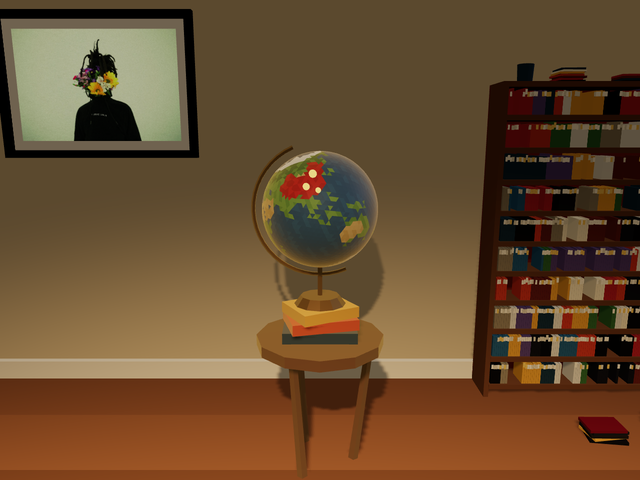
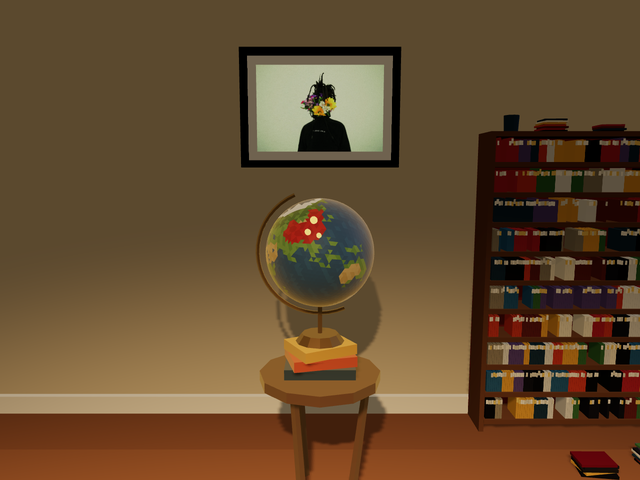
Hub : une chaîne CD à la place de la platine vinyle, I Love Ugly et Evil Dead bien visibles sur téléphone
Le lecteur CD se charge par le dessus (le CD irisé tourne sous son couvercle fumé, l'écran bleu), des boîtiers de CD rangés dans le meuble et en pile sur le plateau. I Love Ugly passe au-dessus du globe, Evil Dead au-dessus du pupitre de quiz, un peu plus lumineux ; la lanterne « ? » se pose sur son pied à côté du pupitre.

Claude-Session: https://claude.ai/code/session_019D9NeCzFApqhUD5yddUWtk

diff --git a/scene.js b/scene.js
@@ -1,7 +1,7 @@
 /* ════════════════════════════════════════════════════════════════════
    OSB CORPORATION — la pièce
    Une chambre-bureau vue comme une maison de poupée : chaque création
-   est un objet de la pièce (l'ordi, la platine, le globe, le panier de
+   est un objet de la pièce (l'ordi, la chaîne CD, le globe, le panier de
    Talya, le pupitre de quiz, la cible, le carton). On passe de l'un à l'autre
    à la molette, au doigt ou aux flèches ; un clic sur l'objet l'ouvre.
    ════════════════════════════════════════════════════════════════════ */
@@ -13,7 +13,7 @@ import * as THREE from './vendor/three.min.js';   // three.js compacté (vendor/
 const PLACES = {
   ordi:       { pos: [-2.6, 0, -3.35], face: 0,            vue: [2.3, 1.55, 1.05] },
   platine:    { pos: [1.9, 0, -3.5],   face: 0,            vue: [2.2, 1.5, .95] },
-  globe:      { pos: [-4.1, 0, -.7],   face: Math.PI / 2,  vue: [2.3, 1.55, 1.1] },
+  globe:      { pos: [-4.1, 0, -.7],   face: Math.PI / 2,  vue: [2.45, 1.62, 1.3] },
   talya:      { pos: [3.1, 0, 1.1],    face: -2.4,         vue: [2.4, 1.35, .35] },
   quiz:       { pos: [4.5, 0, -1.6],   face: -Math.PI / 2, vue: [2.7, 1.55, 1.15] },
   flechettes: { pos: [-4.92, 0, 1.9],  face: Math.PI / 2,  vue: [2.6, 1.6, 1.55] },
@@ -102,7 +102,7 @@ export function demarrer({ toile, etapes, surEtape, reduit, decors = {}, surDeco
   }
   // aux murs : ses images, encadrées
   const chargeur = new THREE.TextureLoader();
-  function tableau(url, w, h, x, y, z, ry, { cadre = '#1d1b19', bord = .05, epais = .045, dore = false, marge = .055, passe = '#f3eee2' } = {}) {
+  function tableau(url, w, h, x, y, z, ry, { cadre = '#1d1b19', bord = .05, epais = .045, dore = false, marge = .055, passe = '#f3eee2', lum = .42 } = {}) {
     const g = new THREE.Group(); g.position.set(x, y, z); g.rotation.y = ry; scene.add(g);
     // la baguette : un cadre épais aux angles, qui dépasse du mur ; dedans un passe-partout crème ; puis l'image, un peu en retrait
     const matCadre = M(cadre, dore ? { metalness: .55, roughness: .38, flatShading: false } : { roughness: .55, flatShading: false });
@@ -113,14 +113,14 @@ export function demarrer({ toile, etapes, surEtape, reduit, decors = {}, surDeco
     const epaisImage = .012;
     const mat = new THREE.MeshStandardMaterial({ color: '#2a2622', roughness: .85 });
     // un peu de lumière propre, sinon le haut des murs les avale
-    chargeur.load(url, tex => { tex.colorSpace = THREE.SRGBColorSpace; tex.anisotropy = 4; mat.map = mat.emissiveMap = tex; mat.color.set('#ffffff'); mat.emissive.set('#ffffff'); mat.emissiveIntensity = .42; mat.needsUpdate = true; });
+    chargeur.load(url, tex => { tex.colorSpace = THREE.SRGBColorSpace; tex.anisotropy = 4; mat.map = mat.emissiveMap = tex; mat.color.set('#ffffff'); mat.emissive.set('#ffffff'); mat.emissiveIntensity = lum; mat.needsUpdate = true; });
     const image = new THREE.Mesh(new THREE.PlaneGeometry(w, h), mat); image.position.z = epaisImage; image.receiveShadow = true; g.add(image);
     image.userData.garder = true;   // son image arrive plus tard : on ne la fusionne pas
   }
-  tableau('img/murs/chief-keef.jpg', 1.0, .749, 1.9, 1.54, -4.18, 0, { cadre: '#b08a3e', bord: .07, epais: .06, dore: true, marge: .06 });   // Chief Keef au jardin d'Éden, au-dessus de la platine
+  tableau('img/murs/chief-keef.jpg', 1.0, .749, 1.9, 1.54, -4.18, 0, { cadre: '#b08a3e', bord: .07, epais: .06, dore: true, marge: .06 });   // Chief Keef au jardin d'Éden, au-dessus de la chaîne CD
   tableau('img/murs/koi.jpg', .66, .66, -2.6, 2.06, -4.18, 0, { cadre: '#5a3820', bord: .05 });                                     // la carpe géante, au-dessus du bureau
-  tableau('img/murs/i-love-ugly.jpg', .96, .642, -4.99, 1.86, .62, Math.PI / 2, { cadre: '#161514', bord: .045 });                                                   // I Love Ugly (Chester Watson), entre le globe et la cible
-  tableau('img/murs/evil-dead-2.jpg', .56, .868, 4.99, 1.72, -2.85, -Math.PI / 2, { cadre: '#b8282e', bord: .035, marge: .045 });                           // Evil Dead 2, entre la plante et le pupitre de quiz
+  tableau('img/murs/i-love-ugly.jpg', .8, .535, -4.99, 2.02, -.7, Math.PI / 2, { cadre: '#161514', bord: .045, lum: .55 });   // I Love Ugly (Chester Watson), au-dessus du globe
+  tableau('img/murs/evil-dead-2.jpg', .5, .775, 4.99, 1.86, -1.6, -Math.PI / 2, { cadre: '#b8282e', bord: .035, marge: .045, lum: .75 });   // Evil Dead 2, au-dessus du pupitre de quiz
 
   meubler(scene, { M, boite });
   tableau('img/murs/seta.jpg', .76, .76, 4.99, 2.2, 2.85, -Math.PI / 2, { cadre: '#b07a48', bord: .05 });   // Seta, au-dessus de la télé
@@ -444,6 +444,27 @@ function ecranConsole() {
   return tex;
 }
 
+// un CD vu côté gravure : l'argent, les reflets arc-en-ciel qui tournent, le moyeu transparent et son trou
+function texteCD() {
+  return toileTexte(256, 256, (x, w, h) => {
+    const c = w / 2;
+    const base = x.createRadialGradient(c, c, 20, c, c, c); base.addColorStop(0, '#e8ebef'); base.addColorStop(1, '#b9bec6'); x.fillStyle = base; x.beginPath(); x.arc(c, c, c, 0, 7); x.fill();
+    if (x.createConicGradient) {
+      const arc = x.createConicGradient(0, c, c); ['rgba(255,120,200,.55)', 'rgba(120,200,255,.55)', 'rgba(170,255,170,.5)', 'rgba(255,240,140,.55)', 'rgba(255,120,200,.55)', 'rgba(120,200,255,.55)', 'rgba(255,120,200,.55)'].forEach((k, i, a) => arc.addColorStop(i / (a.length - 1), k));
+      x.globalCompositeOperation = 'overlay'; x.fillStyle = arc; x.beginPath(); x.arc(c, c, c, 0, 7); x.fill(); x.globalCompositeOperation = 'source-over';
+    }
+    x.strokeStyle = 'rgba(255,255,255,.35)'; for (let r = 46; r < c; r += 9) { x.lineWidth = 1; x.beginPath(); x.arc(c, c, r, 0, 7); x.stroke(); }
+    // la sérigraphie : un arc corail et un arc crème, comme sur les CD des années 2000 (et ça montre qu'il tourne)
+    x.lineWidth = 26; x.lineCap = 'round';
+    x.strokeStyle = '#e8613f'; x.beginPath(); x.arc(c, c, 72, -.4, 2.2); x.stroke();
+    x.strokeStyle = '#f3e6c4'; x.beginPath(); x.arc(c, c, 72, 2.75, 4.1); x.stroke();
+    x.fillStyle = '#1a1714'; x.font = '700 15px "IBM Plex Mono", monospace'; x.textAlign = 'center'; x.fillText('MUSIC DISCOVERY', c, c + 64);
+    x.fillStyle = '#d9dde2'; x.beginPath(); x.arc(c, c, 40, 0, 7); x.fill();
+    x.fillStyle = 'rgba(200,210,220,.55)'; x.beginPath(); x.arc(c, c, 30, 0, 7); x.fill();
+    x.fillStyle = '#1a1714'; x.beginPath(); x.arc(c, c, 10, 0, 7); x.fill();
+  });
+}
+
 // le cannage des portes du meuble télé (le rotin tressé des années 70)
 function cannage() {
   return toileTexte(256, 128, (x, w, h) => {
@@ -570,7 +591,7 @@ function meubler(scene, { M, boite }) {
   const tour = etagere(T, { M, boite }, { l: .46, p: .2, n: 8, pas: .178, item: CD, bois: '#2b2b2e', fond: '#2f5f6a', seed: 37, plein: .98 });
   tas(tour.g, boite, M, 3, .13, .011, .14, 0, tour.H, 0, CD.pal, 3);
 
-  // les DVD et Blu-ray, au fond à droite, à côté de la platine
+  // les DVD et Blu-ray, au fond à droite, à côté de la chaîne CD
   const D = new THREE.Group(); D.position.set(3.5, 0, -4.035); scene.add(D);
   const dvd = etagere(D, { M, boite }, { l: 1.2, p: .22, n: 6, pas: .245, item: DVD, bois: '#8a5d38', fond: '#2f5a46', seed: 73, plein: .97 });
   const poste = new THREE.Group(); poste.position.set(-.3, dvd.H, 0); dvd.g.add(poste);                                       // un vieux poste de radio
@@ -769,7 +790,7 @@ const FORMES = {
     return { anime(temps, eveil) { ampoule.intensity = 1.2 + eveil * .8; } };
   },
 
-  // Music Discovery : une vraie chaîne de mélomane, sur une enfilade en noyer des années 60
+  // Music Discovery : une chaîne CD de mélomane (lecteur à chargement par le dessus, ampli, enceintes), sur une enfilade en noyer
   platine(g, { M, boite }) {
     const noyer = M('#6e4527', { roughness: .5, flatShading: false }), noyerF = M('#5a3820', { roughness: .6 }), laiton = M('#c9a25a', { metalness: .7, roughness: .3, flatShading: false });
     const alu = M('#c9cbd0', { metalness: .6, roughness: .3, flatShading: false }), noir = M('#17161a', { roughness: .45 });
@@ -779,21 +800,26 @@ const FORMES = {
     [[-.78, -.19], [.78, -.19], [-.78, .19], [.78, .19]].forEach(([x, z]) => { const p = cylindre(g, .024, .013, .12, 8, M('#3a2416'), x, .06, z); p.rotation.z = x < 0 ? .12 : -.12; });
     for (let i = 0; i < 10; i++) boite(.072, .44, .02, noyer, .1 + i * .074, .35, .236, g);       // les portes à lattes
     boite(.02, .1, .02, laiton, .08, .4, .25, g);
-    ['#c8572f', '#2f4a5a', '#d9a23a', '#e6dcc2', '#7b3b2e', '#4f7a46', '#1d1c1f', '#9fd8ff', '#b8473a', '#e9c46a', '#6e5a8a', '#f0a6d8', '#2a2a30', '#d8d4c8'].forEach((c, i) => { const v = boite(.012, .32, .32, M(c), -.78 + i * .051, .29, .05, g); v.rotation.z = (i % 4 - 1.5) * .03; });
-    // la platine : socle en bois clair, plateau alu, le vinyle et son rond coloré, le bras
-    molle(g, .46, .07, .36, .015, M('#b98a5a', { roughness: .45, flatShading: false }), -.38, .66, 0);
-    cylindre(g, .155, .155, .016, 32, alu, -.42, .703, 0);
-    const disque = new THREE.Group(); disque.position.set(-.42, .714, 0); disque.userData.vivant = true; g.add(disque);
-    const vinyle = new THREE.Mesh(new THREE.CylinderGeometry(.148, .148, .005, 40), M('#111012', { roughness: .22, flatShading: false })); disque.add(vinyle);
-    const rond = new THREE.Mesh(new THREE.CylinderGeometry(.05, .05, .007, 20), new THREE.MeshStandardMaterial({ map: toileTexte(128, 128, (x) => {
-      const d = x.createConicGradient ? x.createConicGradient(0, 64, 64) : null;
-      if (d) { ['#9fd8ff', '#f0a6d8', '#ffe08a', '#9fd8ff'].forEach((c, i) => d.addColorStop(i / 3, c)); x.fillStyle = d; } else x.fillStyle = '#9fd8ff';
-      x.fillRect(0, 0, 128, 128); x.fillStyle = '#111'; x.beginPath(); x.arc(64, 64, 6, 0, 7); x.fill();
-    }) })); rond.position.y = .002; disque.add(rond);
-    const bras = new THREE.Group(); bras.position.set(-.22, .72, -.12); bras.userData.vivant = true; g.add(bras);
-    cylindre(bras, .018, .02, .03, 10, alu, 0, 0, 0);
-    const tige = cylindre(bras, .005, .005, .26, 6, alu, -.05, .02, .12); tige.rotation.set(Math.PI / 2, 0, 0); tige.rotation.y = -.4;
-    cylindre(bras, .014, .014, .03, 10, noir, .02, .02, -.04).rotation.x = Math.PI / 2;      // le contrepoids
+    // la case ouverte : des CD rangés sur deux étages, tranches colorées, quelques boîtiers qui penchent
+    boite(.78, .015, .42, noyerF, -.42, .35, .01, g);
+    const tranches = ['#c8572f', '#2f4a5a', '#d9a23a', '#e6dcc2', '#7b3b2e', '#4f7a46', '#1d1c1f', '#9fd8ff', '#b8473a', '#e9c46a', '#6e5a8a', '#f0a6d8', '#2a2a30', '#d8d4c8'];
+    [.145, .36].forEach((y, rang) => { for (let i = 0; i < 48; i++) { if (rang && i > 40) break; const c = boite(.0105, .125, .142, M(tranches[(i * 5 + rang * 3) % tranches.length], { roughness: .35 }), -.79 + i * .0124, y + .0625, .06, g); if (i % 13 === 12) c.rotation.z = .08; } });
+    // le lecteur CD à chargement par le dessus : le couvercle fumé, le CD qui tourne dessous, l'écran bleu
+    molle(g, .44, .085, .34, .012, M('#1d1c20', { roughness: .4, flatShading: false }), -.37, .668, 0);
+    boite(.42, .004, .32, alu, -.37, .712, 0, g);
+    cylindre(g, .118, .118, .006, 40, noir, -.4, .715, -.01);                                 // le puits où on pose le CD
+    const disque = new THREE.Group(); disque.position.set(-.4, .72, -.01); disque.userData.vivant = true; g.add(disque);
+    const cd = new THREE.Mesh(new THREE.CylinderGeometry(.11, .11, .003, 48), new THREE.MeshStandardMaterial({ map: texteCD(), metalness: .35, roughness: .22, flatShading: false })); disque.add(cd);
+    const couvercle = new THREE.Mesh(new THREE.CylinderGeometry(.125, .125, .012, 40), new THREE.MeshStandardMaterial({ color: '#2a2d36', transparent: true, opacity: .32, roughness: .05, metalness: .2, flatShading: false }));
+    couvercle.position.set(-.4, .73, -.01); g.add(couvercle);
+    const affCD = toileTexte(256, 48, (x, w, h) => { x.fillStyle = '#071722'; x.fillRect(0, 0, w, h); x.fillStyle = '#7fe0ff'; x.font = '700 24px "IBM Plex Mono", monospace'; x.fillText('CD  01  ▶ 02:14', 14, 33); });
+    const lcdCD = new THREE.Mesh(new THREE.PlaneGeometry(.17, .032), new THREE.MeshBasicMaterial({ map: affCD, toneMapped: false })); lcdCD.position.set(-.37, .668, .172); g.add(lcdCD);
+    [-.52, -.21].forEach(x => { const b = cylindre(g, .01, .01, .01, 10, alu, x, .668, .172); b.rotation.x = Math.PI / 2; });
+    // entre le lecteur et l'ampli : une petite pile de boîtiers de CD, posés à plat, le dernier un peu de travers
+    ['#2f4a5a', '#e9c46a', '#b8473a', '#1d1c1f'].forEach((c, i) => {
+      const b = new THREE.Group(); b.position.set(-.05, .632 + i * .0106, .04); b.rotation.y = (i - 1.5) * .09 + (i === 3 ? .22 : 0); g.add(b);
+      boite(.142, .0102, .124, M(c, { roughness: .25 }), 0, 0, 0, b); boite(.008, .0104, .124, M('#141317', { roughness: .3 }), -.071, 0, 0, b);
+    });
     // l'ampli : façade alu, deux vu-mètres ambrés qui s'allument, gros boutons
     const ampli = new THREE.Group(); ampli.position.set(.3, .625, -.03); g.add(ampli);
     boite(.5, .13, .32, noir, 0, .065, 0, ampli); boite(.5, .12, .01, alu, 0, .065, .162, ampli);
@@ -808,13 +834,12 @@ const FORMES = {
       boite(.21, .36, .006, M('#d8c7a0', { roughness: 1 }), 0, .21, .131, e);
       boite(.05, .012, .003, laiton, 0, .06, .136, e);
     });
-    fusionnerDecor(g);   // le meuble, l'ampli, les enceintes : fixes ; le disque, le bras, les aiguilles bougent
+    fusionnerDecor(g);   // le meuble, les CD, l'ampli, les enceintes : fixes ; le CD qui tourne et les aiguilles bougent
     let v = 0;
     return {
       anime(temps, eveil, secousse, dt) {
-        v += ((.3 + eveil * 3.2 + secousse * 12) - v) * Math.min(1, dt * 2);
+        v += ((.6 + eveil * 9 + secousse * 20) - v) * Math.min(1, dt * 2);   // un CD tourne vite
         disque.rotation.y -= v * dt;
-        bras.rotation.y = -.28 * Math.min(1, eveil * 1.2);
         vu.emissiveIntensity = .35 + eveil * 1.1;
         aiguilles.forEach((a, i) => { a.rotation.z = .6 - eveil * (.5 + Math.abs(Math.sin(temps * (5 + i) + i)) * .7); });
       },
@@ -957,9 +982,9 @@ const FORMES = {
     const buzzer = new THREE.Mesh(new THREE.SphereGeometry(.095, 20, 12, 0, Math.PI * 2, 0, Math.PI / 2), M('#ff2a2a', { emissive: '#ff1a1a', emissiveIntensity: .3, roughness: .3, flatShading: false }));
     buzzer.position.set(0, 1.04, .04); buzzer.castShadow = true; buzzer.userData.garder = true; g.add(buzzer);
     const fiche = boite(.2, .005, .13, M('#f4efe4', { roughness: 1 }), .3, 1.005, .08, g); fiche.rotation.set(.1, -.3, 0);
-    // derrière : une lanterne « ? » sur un mât, qui tourne doucement
-    cylindre(g, .015, .015, 1.0, 6, noir, 0, 1.5, -.32);
-    const lanterne = new THREE.Group(); lanterne.position.set(0, 2.08, -.32); lanterne.userData.vivant = true; g.add(lanterne);
+    // à côté : une lanterne « ? » sur son pied, qui tourne doucement
+    cylindre(g, .13, .15, .03, 16, noir, .66, .015, -.1); cylindre(g, .015, .015, 1.62, 6, noir, .66, .82, -.1);
+    const lanterne = new THREE.Group(); lanterne.position.set(.66, 1.72, -.1); lanterne.userData.vivant = true; g.add(lanterne);
     const signe = toileTexte(128, 128, (x, w, h) => { x.fillStyle = '#1c2a4a'; x.fillRect(0, 0, w, h); x.fillStyle = '#ffd35a'; x.font = '900 104px "Inter Tight", Helvetica, Arial, sans-serif'; x.textAlign = 'center'; x.textBaseline = 'middle'; x.fillText('?', w / 2, h / 2 + 6); });
     const cube = new THREE.Mesh(new THREE.BoxGeometry(.22, .22, .22), new THREE.MeshStandardMaterial({ map: signe, emissiveMap: signe, emissive: '#ffffff', emissiveIntensity: .5, roughness: .6 }));
     lanterne.add(cube);

diff --git a/index.html b/index.html
@@ -397,7 +397,7 @@
       try {
         const essai = document.createElement('canvas');
         if (!(essai.getContext('webgl2') || essai.getContext('webgl'))) throw new Error('pas de webgl');
-        const { demarrer } = await import('./scene.js?v=20261104d');   // ?v= : force le téléphone à reprendre la dernière version
+        const { demarrer } = await import('./scene.js?v=20261104e');   // ?v= : force le téléphone à reprendre la dernière version
         parcours = demarrer({ toile: $('#toile'), etapes: ETAPES, surEtape: afficher, reduit,
           depart: retourDe > 0 ? retourDe : 0, bloque: () => avantDebut, surBloque: appeler,
           surPret: () => { document.body.classList.add('piece-prete'); if (allerDesQuePret) { allerDesQuePret = false; parcours.aller(1); } },
